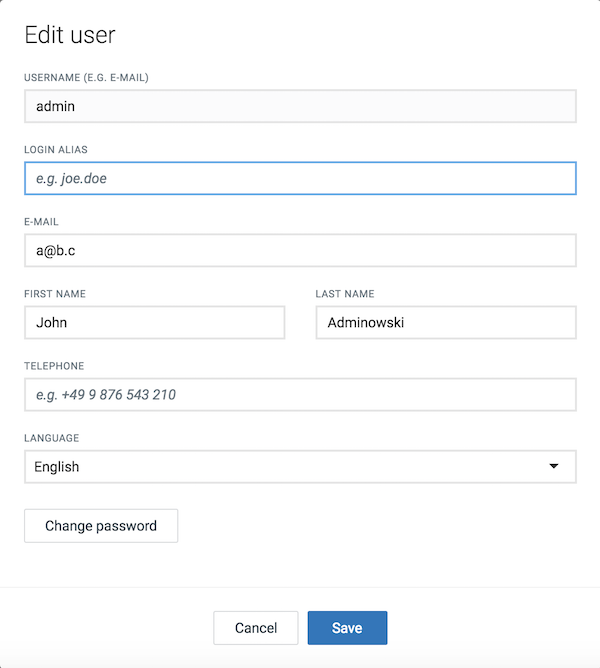
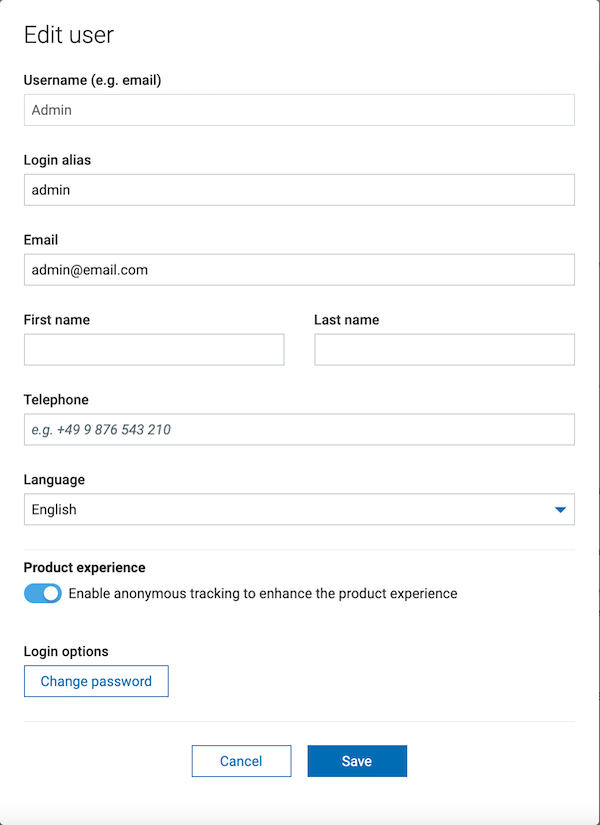
added some more details on gainsight tracking

diff --git a/content/users-guide/getting-started-bundle/accessing-platform.md b/content/users-guide/getting-started-bundle/accessing-platform.md
@@ -70,6 +70,8 @@ If you use one of the public cloud instances of the {{< product-c8y-iot >}} plat
 	* **Required** - Required to enable core site functionality. They perform a task or operation without which a site's functionality would not be possible. Required cookies cannot be disabled.
 	* **Functional** - Used to track site usage and to process personal data to measure and improve usability and performance. Functional cookies must be actively enabled by the user.
 
+>**Info:** If you have enabled functional cookies you can opt-out from the product experience tracking later on via the **User settings** dialog, see [User options and settings](/users-guide/getting-started/#user-settings).
+
 Select the **Remember me** checkbox if you want the browser to remember your credentials, so that you do not have to enter them again when opening the application the next time. This is especially convenient if you frequently switch between {{< product-c8y-iot >}} applications, as the {{< product-c8y-iot >}} platform will request you to authenticate each time when starting an application. You can make the browser "forget" your credentials by explicitly logging out.
 
 Finally, click **Login** to enter the {{< product-c8y-iot >}} platform. Initially, you will be taken to the [Cockpit](/users-guide/cockpit) application (if not configured differently).

diff --git a/content/users-guide/getting-started-bundle/user-settings.md b/content/users-guide/getting-started-bundle/user-settings.md
@@ -61,8 +61,9 @@ Several account settings can be changed by the user.
 1. Click the **User** button at the right of the top bar and then click **User Settings**.  
 2. In the **Edit user** dialog box, make the relevant changes.
 3. To change the language, select a [language](#languages) from the dropdown list in the  **Language** field.
-4. Click **Change password** to change your current password, see [To change your password](#change-password) for details.
-5. Click **Save** to apply your settings.
+4. Use the **Product experience** toggle to opt-out from the product experience tracking by Gainsight which is enabled by default if you accepted functional cookies. 
+5. Click **Change password** to change your current password, see [To change your password](#change-password) for details.
+6. Click **Save** to apply your settings.
 
 <img src="/images/users-guide/getting-started/getting-started-user-settings.png" alt="User settings"  style="max-width: 100%">
 

diff --git a/content/users-guide/enterprise-tenant-bundle/managing-tenants.md b/content/users-guide/enterprise-tenant-bundle/managing-tenants.md
@@ -253,6 +253,8 @@ They can view the peak number of concurrently registered devices, root devices a
 
 Using the checkbox **Enable Gainsight product experience tracking** a parent tenant can enable/disable the product experience tracking through the [Gainsight PX](https://www.gainsight.com/product-experience/) product experience software for the given child tenant.
 
+On tenant level, the porduct experience tracking by Gainsight can be disabling by disabling the cookie banner on the **Branding** page, see [Customizing your platform > Branding](/users-guide/enterprise-tenant/#branding).
+
 Even if tracking is enabled for a tenant, users need to actively accept the tracking of functional cookies, before any functional data on the usage of the platform is tracked, see [Getting started > Accessing and logging into the platform](/users-guide/getting-started/#accessing-platform).
 
 

diff --git a/content/users-guide/enterprise-tenant-bundle/customization.md b/content/users-guide/enterprise-tenant-bundle/customization.md
@@ -185,7 +185,9 @@ In the **Misc** section you specify the "Button Border-Radius" by providing a va
 
 **Cookie banner**
 
-In the **Cookie banner** section you specify the settings for the banner with the cookie usage information. If not disabled here, the banner is shown for all users of the current tenant and subtenants until a user clicks **Agree and proceed**.
+In the **Cookie banner** section you specify the settings for the banner with the cookie usage information. If not disabled here, the banner is shown for all users of the current tenant and all subtenants until a user clicks **Agree and proceed**.
+
+Disabling the cookie banner, also disables the product experience tracking by Gainsight for the current tenant and all subtenants (unless they have branding redefined).
 
 The following parameters can be specified:
 
